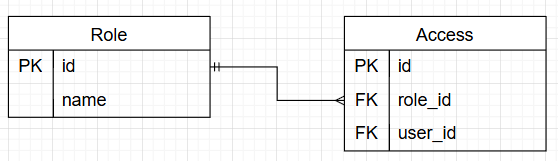
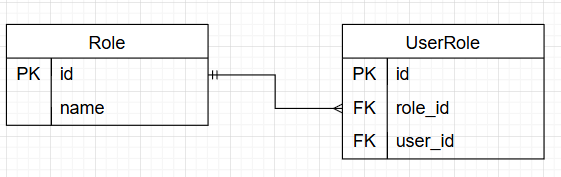
Add files via upload

Changed region(s): [[0.0, 0.0932, 1.0, 0.9627]]

diff --git a/S3/doc.md b/S3/doc.md
@@ -75,11 +75,11 @@ erDiagram
         string name
     }
 
-    Access {
+    UserRole {
         int id PK
         int role_id FK
         int user_id FK
     }
 
-    Role ||--o{ Access : имеет
+    Role ||--o{ UserRole : имеет
                                                                 
